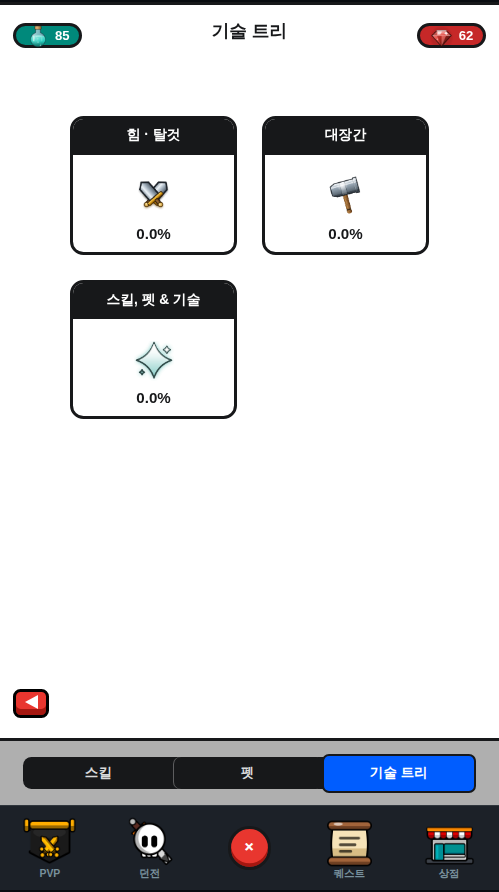
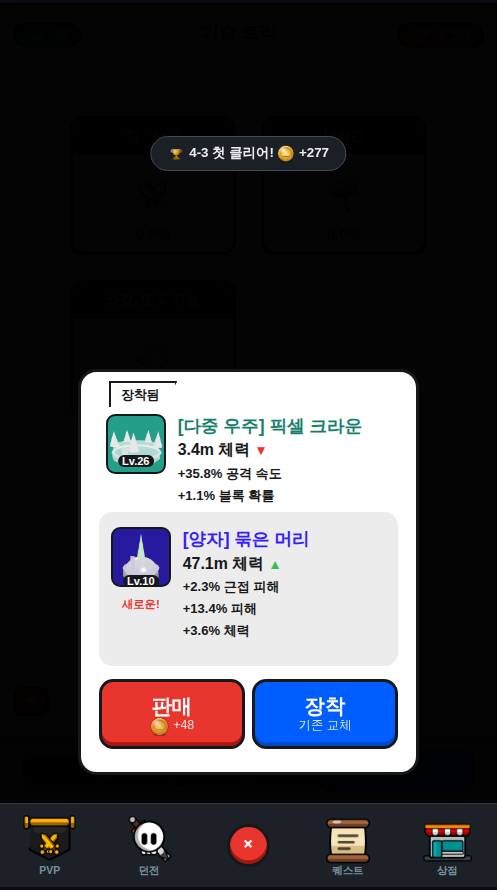
기술 분기 정보 버튼 글리프 ! → i — 원본 실측 대조 + .fi-info-btn 전체에 계약 (tech-info-glyph)

diff --git a/web/tools/probe-info-glyph.js b/web/tools/probe-info-glyph.js
@@ -1,0 +1,72 @@
+// `.fi-info-btn`(검정 원형 정보 버튼)의 글리프 계약 검증 (slug: tech-info-glyph).
+//
+// 원본(`ref/screens/shot-042546.png` 우상단, 젬 pill 아래)은 **검정 원 안 흰 소문자 `i`** 다.
+// 클론은 기술 분기 화면만 `!` 로 그려서, **같은 스타일의 버튼 두 개가 화면마다 다른 글자**를 썼다.
+//
+// 그래서 '기술 분기가 i 인가' 하나만 보지 않는다 — `.fi-info-btn` 이 나오는 **모든 화면**을 열어
+// 전부 같은 글자인지 본다(새 화면에 이 버튼을 달면서 또 다른 글자를 쓰면 그 순간 FAIL).
+// 원본 대조는 글자 모양이 아니라 **글자 값**으로 건다: 원본에서 실측한 것은 'i' 이고, 이건
+// 비율 채점이 아니라 되고 안 되고가 명확한 계약이다.
+//
+// 사용: PW_PATH=... node probe-info-glyph.js
+const { chromium } = require(process.env.PW_PATH || '/opt/node22/lib/node_modules/playwright');
+const path = require('path');
+const INDEX = 'file://' + path.resolve(__dirname, '../index.html');
+
+const GLYPH = 'i';   // 원본 shot-042546 실측 (8배 확대로 눈확인: 검정 원 + 흰 소문자 i, 점+세로획)
+
+// 이 버튼이 실제로 뜨는 화면들 — `shot-screens.js` 의 오프너를 그대로 가져온다(진입 경로가 다르면
+// 다른 것을 재게 된다는 앞 세션들의 함정 ㉢ 을 피하려는 것).
+const SCREENS = [
+    ['tech-branch', `(() => {
+        const ids = TechTree.nodesOf('skillpet');
+        S.tech = S.tech || {};
+        for (let i = 0; i < 7; i++) S.tech[ids[i]] = 1;
+        UI.switchTab('summon'); UI.switchSummonSub('tech'); UI.openTechBranch('skillpet');
+    })()`],
+    ['forge-info', `UI.switchTab('forge'); UI.openForgeInfo && UI.openForgeInfo();`],
+];
+
+(async () => {
+    const browser = await chromium.launch();
+    const page = await browser.newPage({ viewport: { width: 390, height: 844 } });
+    const errs = [];
+    page.on('console', m => m.type() === 'error' && errs.push(m.text()));
+    await page.goto(INDEX);
+    await page.waitForFunction(() => typeof UI !== 'undefined' && UI.els && UI.els.panels, null, { timeout: 30000 });
+    await page.evaluate(() => document.fonts.ready);
+
+    let bad = 0, seen = 0;
+    console.log('화면            글리프  기대  판정');
+    for (const [name, opener] of SCREENS) {
+        const found = await page.evaluate(async (src) => {
+            eval(src);
+            await new Promise(r => setTimeout(r, 220));
+            // 보이는 것만 센다 — 숨은 패널 안의 버튼까지 세면 화면과 무관한 것을 재게 된다.
+            return [...document.querySelectorAll('.fi-info-btn')]
+                .filter(b => b.getBoundingClientRect().width > 0)
+                .map(b => b.textContent.trim());
+        }, opener);
+        if (!found.length) { console.log(`${name.padEnd(15)} (버튼 없음)   ${GLYPH}    SKIP`); continue; }
+        for (const g of found) {
+            seen++;
+            const ok = g === GLYPH;
+            if (!ok) bad++;
+            console.log(`${name.padEnd(15)} ${g.padEnd(7)} ${GLYPH}     ${ok ? 'PASS' : 'FAIL'}`);
+        }
+    }
+
+    // 소스 전수 검사 — 아직 오프너가 없는 화면에 이 버튼이 새로 붙어도 잡히게 한다.
+    const fs = require('fs');
+    const src = fs.readFileSync(path.resolve(__dirname, '../js/ui.js'), 'utf8');
+    const inline = [...src.matchAll(/class="fi-info-btn[^"]*"[^>]*>([^<]*)</g)].map(m => m[1].trim());
+    const inlineBad = inline.filter(g => g !== GLYPH);
+    console.log(`\n소스 내 .fi-info-btn ${inline.length}곳 — 글리프: ${JSON.stringify(inline)}`);
+    if (inlineBad.length) { bad += inlineBad.length; console.log(`  🚨 다른 글자 ${inlineBad.length}곳: ${JSON.stringify(inlineBad)}`); }
+
+    console.log(`\n판정: 렌더 ${seen - bad >= 0 ? seen : seen}곳 중 불일치 ${bad}건 · 콘솔 에러 ${errs.length}건 → ${bad === 0 && !errs.length ? 'PASS' : 'FAIL'}`);
+    if (errs.length) console.log('  ' + errs.join('\n  '));
+
+    await browser.close();
+    process.exit(bad === 0 && errs.length === 0 ? 0 : 1);
+})();

diff --git a/web/js/ui.js b/web/js/ui.js
@@ -3981,7 +3981,9 @@ const UI = {
                 <span class="cur-pill gem">${IconGen.img('gem')} ${U.fmt(S.gems)}</span>
             </div>
             <div class="tech-branch-detail-pct">${pct.toFixed(1)}%</div>
-            <button class="fi-info-btn tech-branch-info" onclick="UI.openTechBonuses()">!</button>
+            <!-- 글리프는 원본(shot-042546)과 같은 소문자 i — 같은 .fi-info-btn 을 쓰는 대장간 정보 버튼(위 openForgeList)도 i 다.
+                 ⚠ ! 로 되돌리지 말 것: 원본 우상단은 검정 원 안 흰 i 이고, 한 스타일이 화면마다 다른 글자를 쓰면 안 된다. -->
+            <button class="fi-info-btn tech-branch-info" onclick="UI.openTechBonuses()">i</button>
             <div class="tech-tree-col"><svg class="tech-tree-links" aria-hidden="true"></svg>${rowsHtml.join('')}</div>
             <button class="btn danger tech-tree-back" onclick="UI.openTechOverview()">◀</button>`;
         this.drawTechLinks();

diff --git a/web/TODO.md b/web/TODO.md
@@ -414,10 +414,13 @@
     · **검증**: 신설 `tools/probe-debug-currency-toast.js` — 7개 버튼을 **실제로 클릭해** 토스트 문구를 읽는다. 판정은 '한글이 뜨는가'가 아니라 **버튼 라벨 == 토스트 라벨 == 기대값**이라, 표시 이름이 다시 갈라지면 그 순간 FAIL 이 난다. **7/7 PASS** + 미등록 키 폴백·경고 PASS. ⚠ `--regress` 로 **고치기 전 코드(`?.label`)를 되살려 7/7 FAIL(exit 1)이 나는 것까지 확인**했다(`potions`·`eggCurrency` 등 항목이 보고한 그 문구 그대로 재현) — 통과만 찍어 보고 '프로브가 돈다'고 믿지 않았다.
     · 🚨 **프로브 함정(실측으로 밟았다)**: 전투 루프가 계속 돌아 **`🏆 1-1 첫 클리어! 🪙+60` 같은 남의 토스트가 클릭 사이에 끼어든다** — 토스트 컨테이너를 비우고 `lastElementChild` 를 읽으면 '젬' 자리에 클리어 토스트가 잡혀 **가짜 FAIL** 이 난다. 클릭 **전후 자식 차분**에서 `+100000` 으로 끝나는 것만 고르도록 고쳤다. 그리고 토스트는 이모지가 아이콘 노드로 바뀌어 있어 비교는 **텍스트 노드만** 모아서 해야 한다(버튼도 아이콘이 앞에 붙어 같은 처리가 필요하다).
     · **회귀**: `probe-debug-icons.js` PASS(디버그 탭 이모지 0 · 아이콘 전부 그림 있음) · `probe-screens-errors.js` **31/31 콘솔 에러 0건** · `node --check js/ui.js`.
-- [ ] **기술 트리 분기 화면의 정보 버튼 글리프가 `!` 다 — 원본과 대장간 정보 팝업은 모두 `i` (slug: tech-info-glyph)** (2026-08-18 QA 플레이 세션):
+- [x] **기술 트리 분기 화면의 정보 버튼 글리프가 `!` 다 — 원본과 대장간 정보 팝업은 모두 `i` (slug: tech-info-glyph)** (2026-08-18 QA 플레이 세션):
   - **재현 절차**: ① 소환 탭 → 기술 트리 서브탭 → 아무 분기(힘·탈것 / 대장간 / 스킬,펫&기술) 카드를 탭한다 ② 화면 우상단(젬 pill 아래)의 검정 원형 버튼을 본다.
   - **기대 동작**: 원본 `web/ref/screens/shot-042546.png` 의 같은 자리는 **검정 원 안 흰 소문자 `i`**(정보). 클론의 대장간 확률 정보 팝업 버튼(`js/ui.js:1291`)도 `i` 로 같은 `.fi-info-btn` 스타일을 쓴다.
   - **실제 동작**: `!` 로 그려진다 — `js/ui.js:3654` `<button class="fi-info-btn tech-branch-info" onclick="UI.openTechBonuses()">!</button>`. 기능(보너스 요약 팝업)은 정상이고 글리프만 다르다. 같은 스타일의 두 버튼이 화면마다 다른 글자를 쓰는 상태다.
+  - **[해결 2026-08-18 UI 스트림]** 글리프를 `i` 로 바꿨다(`js/ui.js` 기술 분기 렌더). **원본을 먼저 확인하고 손댔다** — `shot-042546` 의 해당 자리(505×883 기준 x448 y74 부근)를 12배로 잘라 보니 **검정 원 + 흰 소문자 `i`**(점 + 세로획)가 맞다. 클론도 같은 자리를 12배로 잘라 대조해 같은 그림임을 확인(클론 버튼 25.09×25.09px 정원). 되돌림 방지 주석을 그 줄 위에 달았다.
+    · **검증**: 신설 `tools/probe-info-glyph.js` — 이 버튼 하나가 아니라 **`.fi-info-btn` 스타일 전체에 계약**을 건다: ⓐ 이 버튼이 뜨는 화면을 `shot-screens.js` 오프너 그대로 열어 **보이는 버튼의 글자가 전부 `i`** 인지(렌더 3곳 PASS) ⓑ `js/ui.js` 소스에서 `class="fi-info-btn…"` 를 전수로 훑어 **다른 글자를 쓰는 곳이 0** 인지(2곳 모두 `i`). ⓑ 덕분에 **아직 오프너가 없는 화면에 이 버튼을 새로 달면서 또 다른 글자를 써도** 잡힌다 — 이 버그가 난 방식이 정확히 그거였다. ⚠ 고치기 전 글리프(`!`)를 되살려 **FAIL(exit 1) 3건 + 소스 1곳 적발**이 나오는 것까지 확인했다.
+    · **회귀**: `probe-fi-dom.js`(같은 `.fi-info-btn` 을 재는 유일한 기존 프로브) 최대 오차 1.40%p·PASS · `probe-techoverview-dom.js` PASS · `probe-screens-errors.js` **31/31 콘솔 에러 0건** · `node --check js/ui.js`.
 - [ ] **아바타를 원본 픽셀 초상으로 — 사람 이모지 24종 전면 교체 (slug: avatar-pool)** (2026-08-18 UI 세션이 `icon-gen` 작업 중 분리 등재. `icon-gen` 안에 두기엔 분량이 커 앞선 UI 세션 두 곳이 연달아 '별도 항목 권장'으로 넘긴 건이다): 프로필·리그·채팅·플레이어정보 네 화면의 아바타가 **사람 이모지 그대로**다. **원본(shot-043500)을 9배로 잘라 확인한 결과 원본 아바타는 이모지가 아니라 흰 라운드 타일 + 순검정 키라인 위에 올린 32×32 급 픽셀아트 초상**이다 — 실제로 확인한 두 칸은 ⓐ **새싹 무 크리처**(초록 잎 두 장 + 붉은 뿌리 + 점눈) ⓑ **붉은 사무라이 오니**(주황 초승달 투구 장식 + 붉은 갑옷 + 어두운 얼굴)로, 색 수가 적고 윤곽이 굵은 **레트로 도트 화풍**이다. 이모지와는 화풍 자체가 다르다.
   - **범위**: 풀이 **세 곳에 흩어져 있고**(`js/league.js` `AVATAR_POOL` 20종 · `js/chat.js` `AVATAR_POOL` 12종 · `js/ui.js` `AVATAR_POOL` 12종) `js/state.js` 의 기본값 `avatarEmoji: '🛡'` 까지 합쳐 **합집합 24종**이다: 🎃 🐯 🐲 🐺 👑 👽 🛡 🤠 🥋 🥷 🦊 🦖 🦸 🧑✈ 🧑🌾 🧑🎤 🧑🎨 🧑🔬 🧑🚀 🧑🚒 🧙 🧛 🧝 🧟. ⚠ **`🧑🌾` 류는 ZWJ 결합 문자**라 한 글자로 세면 안 된다(`Array.from` 으로도 안 쪼개진다 — 풀에서 통째로 꺼내 키로 매핑할 것).
   - **선행 정리**: 세 풀이 **서로 다른 목록**이다(chat 12 · league 20 — `🐯` 는 chat 에만, `🎃👑🥋🧑✈🧑🌾🧑🎤🧑🎨🧑🔬🧑🚒` 9종은 league 에만). ⚠ **'같은 봇이 화면마다 다른 얼굴로 뜬다'고 적었다가 확인 후 정정한다 — 그건 아니다**: chat 봇은 `NAME_POOL` 이 아니라 하드코딩 이름으로 `persona()` 해시를 돌리고 league 이름 20종과 **교집합이 0** 이라 두 봇 집단이 겹치지 않는다. 실제 문제는 **`Chat.shareLeagueResult()` 가 league 봇의 `opp.avatar` 를 그대로 채팅 공유 카드에 실어 보내서 채팅 화면 한 곳에 두 풀의 얼굴이 함께 뜬다**는 것이다 — 그래서 **24종을 전부 그려야 하고**, 풀을 한 곳(예: `IconGen` 이웃 상수)으로 합쳐 세 파일이 참조하게 해야 매핑이 한 벌로 끝난다.
